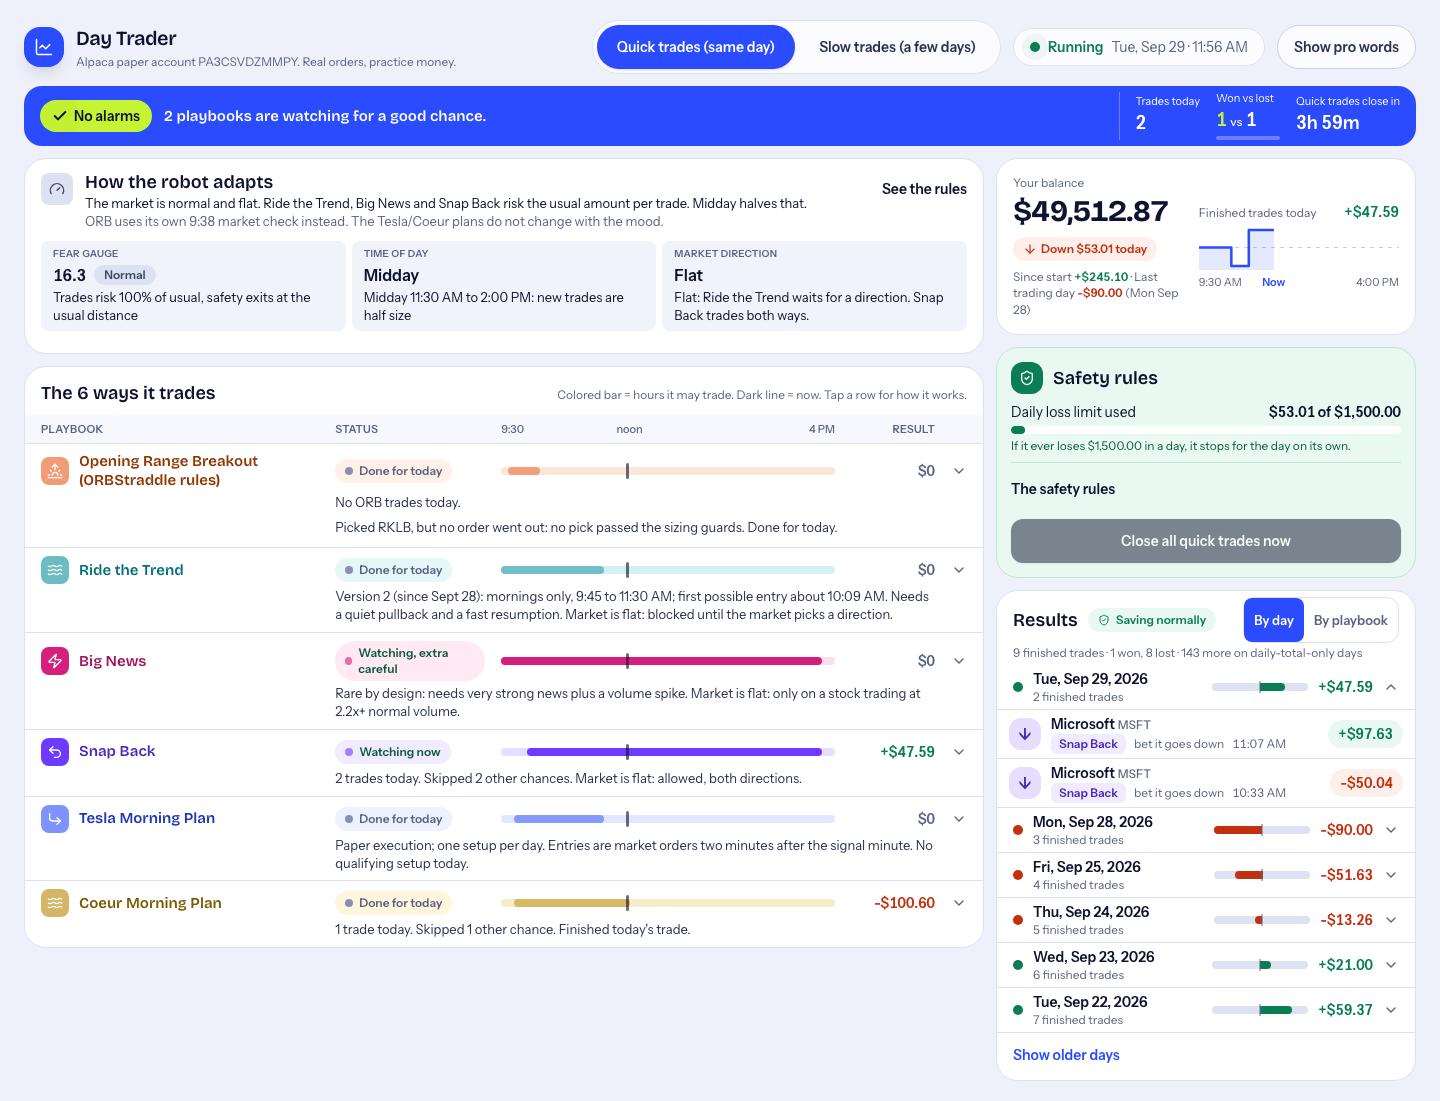
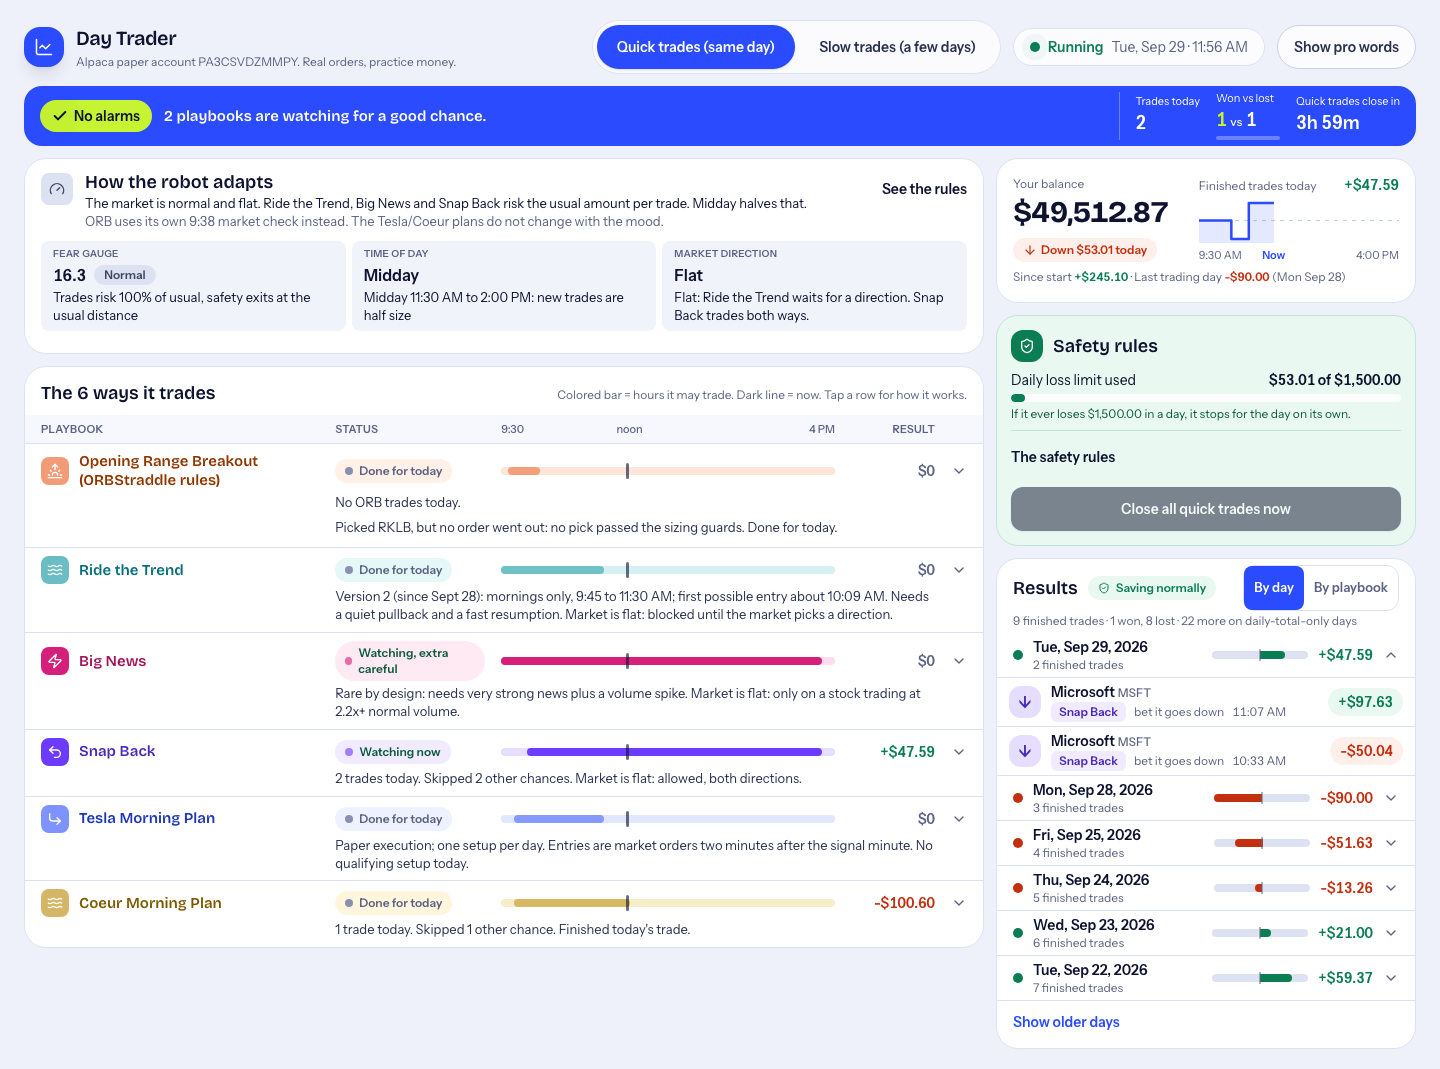
Bright dashboard review fixes: results pill source, no double count, one OvernightHolds, fixed default open group, honest daily-total count, full-width balance line

diff --git a/frontend/components/ResultsPanel.tsx b/frontend/components/ResultsPanel.tsx
@@ -235,8 +235,10 @@ export default function ResultsPanel({ ledger, today, streamPersistence }: Resul
   const [showOlder, setShowOlder] = useState(false);
   const [selected, setSelected] = useState<TradeRecord | null>(null);
   const returnFocus = useRef<HTMLElement | null>(null);
+  const lockedDefault = useRef<Partial<Record<Grouping, string>>>({});
 
-  const { items, sessions, recoveredSessions, summary, loading, error, truncated } = ledger;
+  const { items, sessions, recoveredSessions, loading, error, truncated } = ledger;
+  const firstLoad = loading && items.length === 0 && sessions.length === 0;
 
   const groups = useMemo(
     () => (grouping === "day" ? groupByDay(items, sessions.length ? sessions : recoveredSessions, today) : groupByPlaybook(items, recoveredSessions)),
@@ -249,15 +251,20 @@ export default function ResultsPanel({ ledger, today, streamPersistence }: Resul
     return todayGroup?.key ?? groups.find((g) => g.count > 0)?.key ?? null;
   }, [grouping, groups]);
 
-  const isOpen = (key: string) => (openKeys ? openKeys.has(key) : key === defaultKey);
+  // The default open group is fixed once per grouping, the first time there is one. A refetch (a trade finishing
+  // today) must never close the group the operator is reading or unmount the row a dialog returns focus to.
+  if (!firstLoad && defaultKey && lockedDefault.current[grouping] === undefined) lockedDefault.current[grouping] = defaultKey;
+  const openDefault = lockedDefault.current[grouping] ?? defaultKey;
+  const isOpen = (key: string) => (openKeys ? openKeys.has(key) : key === openDefault);
   const toggle = (key: string) => {
-    const next = new Set(openKeys ?? (defaultKey ? [defaultKey] : []));
+    const next = new Set(openKeys ?? (openDefault ? [openDefault] : []));
     if (next.has(key)) next.delete(key);
     else next.add(key);
     setOpenKeys(next);
   };
   const switchTo = (g: Grouping) => {
     if (g === grouping) return;
+    delete lockedDefault.current[g];
     setGrouping(g);
     setOpenKeys(null);
     setShowAllKeys(new Set());
@@ -281,11 +288,11 @@ export default function ResultsPanel({ ledger, today, streamPersistence }: Resul
 
   const wins = items.filter((t) => t.realized_pnl > 0).length;
   const losses = items.filter((t) => t.realized_pnl < 0).length;
-  const dailyOnly = summary && summary.trades_count > items.length ? summary.trades_count - items.length : 0;
+  // trades that exist only as a daily total (recovered days); trades merely not loaded (page cap) are not counted here
+  const dailyOnly = (sessions.length ? sessions : recoveredSessions).filter((x) => x.aggregate_only).reduce((n, x) => n + x.trades_count, 0);
 
   const durable = streamPersistence.status === "durable";
   const disabled = streamPersistence.status === "disabled";
-  const firstLoad = loading && items.length === 0 && sessions.length === 0;
   const empty = !loading && items.length === 0 && sessions.length === 0 && recoveredSessions.length === 0;
 
   return (

diff --git a/frontend/app/page.tsx b/frontend/app/page.tsx
@@ -206,6 +206,7 @@ export default function Home() {
       ])),
     },
     ledgerError: !!todayLedger.error,
+    resultsError: !!allLedger.error,
     positions: intradayPositions,
   });
 
@@ -304,6 +305,18 @@ export default function Home() {
           </div>
         )}
 
+        {/* Rendered once, above both views (as on main), so a tap-to-confirm in flight survives Quick/Slow switches. */}
+        {overnightOn && (
+          <OvernightHolds
+            holds={holdViews}
+            tonight={tonightLines}
+            summary={overnightSummary}
+            noBuyActive={noBuyActive}
+            disabledReason={disabledReason}
+            onSetNoBuy={setNoBuyTonight}
+          />
+        )}
+
         {mode === "intraday" ? (
           // Quick trades: two columns from lg up. Balance sits top right, the left stack runs the whole height, Safety and
           // Results stack under Balance. DOM order is the phone order: Balance, left stack, right stack (no CSS order).
@@ -320,16 +333,6 @@ export default function Home() {
             />
 
             <div className="flex min-w-0 flex-col gap-3 lg:col-span-1 lg:col-start-1 lg:row-span-2 lg:row-start-1">
-              {overnightOn && (
-                <OvernightHolds
-                  holds={holdViews}
-                  tonight={tonightLines}
-                  summary={overnightSummary}
-                  noBuyActive={noBuyActive}
-                  disabledReason={disabledReason}
-                  onSetNoBuy={setNoBuyTonight}
-                />
-              )}
 
               <HoldingNow
                 positions={intradayPositions}
@@ -377,16 +380,6 @@ export default function Home() {
               overnightNote={holdViews.length > 0 ? overnightBalanceNote(holdsValue) : null}
               history={ledgerHistoryLine(allLedger, todayEt)}
             />
-            {overnightOn && (
-              <OvernightHolds
-                holds={holdViews}
-                tonight={tonightLines}
-                summary={overnightSummary}
-                noBuyActive={noBuyActive}
-                disabledReason={disabledReason}
-                onSetNoBuy={setNoBuyTonight}
-              />
-            )}
             <div className="fadein flex flex-col gap-4">
               <SwingTelemetryBar swingState={state.swing} showPro={showPro} />
               <ActiveSwingPositionsTable

diff --git a/frontend/components/BalanceCard.tsx b/frontend/components/BalanceCard.tsx
@@ -66,7 +66,8 @@ export default function BalanceCard({ equity, dailyPnl, todayTrades, loading, ov
   }, [todayTrades]);
 
   return (
-    <div className={`rise hover-card flex flex-col rounded-[22px] border border-line bg-white ${narrow ? "gap-1.5 p-3 sm:flex-row sm:items-stretch sm:gap-4 sm:p-4" : "gap-3 p-4 sm:flex-row sm:items-stretch sm:gap-5 sm:p-5"} ${className}`} data-testid="balance-card">
+    <div className={`rise hover-card flex flex-col rounded-[22px] border border-line bg-white ${narrow ? "gap-1.5 p-3 sm:p-4" : "gap-2 p-4 sm:p-5"} ${className}`} data-testid="balance-card">
+      <div className={`flex flex-col ${narrow ? "gap-1.5 sm:flex-row sm:items-stretch sm:gap-4" : "gap-3 sm:flex-row sm:items-stretch sm:gap-5"}`}>
       <div className={`flex flex-col gap-2 ${narrow ? "sm:w-[44%] sm:justify-center" : "sm:w-[46%] sm:justify-center"}`}>
       <div className="flex flex-row items-start justify-between gap-3 sm:flex-col sm:gap-2">
         <div className="flex flex-col gap-0.5">
@@ -95,12 +96,6 @@ export default function BalanceCard({ equity, dailyPnl, todayTrades, loading, ov
           </div>
         )}
       </div>
-        {history && (
-          <div className="text-xs leading-snug text-muted" data-testid="balance-history">
-            <span className="whitespace-nowrap">Since start <MoneyText value={history.sinceStart} />{history.lastDay && " ·"}</span>
-            {history.lastDay && <> Last trading day <MoneyText value={history.lastDay.pnl} /> ({history.lastDay.label})</>}
-          </div>
-        )}
       </div>
 
       <div className="flex min-w-0 flex-1 flex-col justify-center gap-1">
@@ -136,6 +131,13 @@ export default function BalanceCard({ equity, dailyPnl, todayTrades, loading, ov
           <span>4:00 PM</span>
         </div>
       </div>
+      </div>
+      {history && (
+        <div className="text-xs leading-snug text-muted" data-testid="balance-history">
+          <span className="whitespace-nowrap">Since start <MoneyText value={history.sinceStart} />{history.lastDay && " ·"}</span>
+          {history.lastDay && <> Last trading day <MoneyText value={history.lastDay.pnl} /> ({history.lastDay.label})</>}
+        </div>
+      )}
     </div>
   );
 }

diff --git a/frontend/lib/plain.ts b/frontend/lib/plain.ts
@@ -1031,6 +1031,8 @@ export interface AttentionInputs {
   };
   /** Today's finished-trades list failed to load (the strip's "Trades today" would read a silent 0). */
   ledgerError: boolean;
+  /** The all-time ledger (the Results panel) failed to refresh. */
+  resultsError: boolean;
   /** Quick-trade positions (overnight holds excluded). */
   positions: { symbol: string; stop_loss?: number | null; strategy_id?: string | null }[];
 }
@@ -1070,8 +1072,9 @@ export function collectAttention(i: AttentionInputs): AttentionItem[] {
     });
   }
   guard(() => { if (i.overnight.initError) add("overnight-init", "overnight holds could not start"); });
-  guard(() => { for (const sym of i.overnight.needsLook) add(`overnight-look:${sym}`, `${sym} overnight hold needs a look`); });
+  guard(() => { for (const sym of i.overnight.needsLook) if (!i.unsold.includes(sym)) add(`overnight-look:${sym}`, `${sym} overnight hold needs a look`); });
   guard(() => { if (i.ledgerError) add("ledger", "today's trades did not load"); });
+  guard(() => { if (i.resultsError) add("results", "results did not refresh"); });
   for (const p of i.positions) {
     guard(() => {
       const w = positionWarning(p);

diff --git a/scripts/verify_bright_dashboard.py b/scripts/verify_bright_dashboard.py
@@ -340,6 +340,20 @@ def run_attention(browser, port: int) -> None:
     check(expect_one(got, "today's trades did not load"), f"[one/ledger] today's ledger 500: count 1 and the list says so ({got['text']!r}, {got['list']!r})")
     s.close()
 
+    # the all-time ledger (Results) fails: the pill says so too
+    led = Ledger(vc.LIVE_TRADES)
+    led.fail_all = True
+    s = BS(browser, port, "one/results", "desktop", LIVE, led)
+    got = pill(s)
+    check(expect_one(got, "results did not refresh"), f"[one/results] range=all 500: count 1 and the list says so ({got['text']!r}, {got['list']!r})")
+    s.close()
+
+    # an unsold hold that also needs a look counts once
+    s = BS(browser, port, "dedup/unsold", "desktop", with_overnight(LIVE, needs_look=["BOOK_MORE_THAN_ALPACA"], unsold=["IREN"]), Ledger(vc.LIVE_TRADES))
+    got = pill(s)
+    check(expect_one(got, "IREN not sold yet"), f"[dedup] unsold plus needs-look on the same stock counts once ({got['text']!r}, {got['list']!r})")
+    s.close()
+
     # de-dup: an orphan that also raises an ORB alert and an ORB error counts once
     s = BS(browser, port, "dedup", "desktop", mutate(LIVE, orb_orphan_with_error), Ledger(vc.LIVE_TRADES))
     got = pill(s)
@@ -414,8 +428,8 @@ def run_results(browser, port: int) -> None:
     items = body["items"]
     wins, losses = sum(1 for t in items if t["realized_pnl"] > 0), sum(1 for t in items if t["realized_pnl"] < 0)
     check(summary.startswith(f"{len(items)} finished trades · {wins} won, {losses} lost"), f"[summary] counts come from the loaded trades ({summary!r})")
-    more = body["summary"]["trades_count"] - len(items)
-    check(f"{more} more on daily-total-only days" in summary, f"[summary] trades on daily-total-only days are said, not added ({summary!r})")
+    more = sum(x["trades_count"] for x in sessions if x["aggregate_only"])
+    check(f"{more} more on daily-total-only days" in summary, f"[summary] only recovered daily-total-only days are counted as 'more' ({more}: {summary!r})")
 
     # a day whose total differs from the sum of its trades by a few cents shows the SESSION total
     day1 = sessions[1]["session_date"]  # newest earlier day (index 0 is today)
@@ -541,6 +555,27 @@ def run_results(browser, port: int) -> None:
     led.fail_all = False
     p.wait_for_timeout(5600)
     check(p.get_by_test_id("results-error").count() == 0, "[error] it recovers on the next retry (5 s) and the line goes away")
+    s.close()
+
+    # default open group is fixed: yesterday open by default, a dialog open, a refetch adds a trade today
+    led = Ledger([])
+    s = BS(browser, port, "results-lock", "desktop", LIVE, led, settle_ms=2000)
+    yday = led.sessions[0]["session_date"]
+    check(group_btn(s, yday).get_attribute("aria-expanded") == "true", "[lock] with no trades today the newest day is open by default")
+    row = s.page.locator(f"[data-testid=results-group][data-key='{yday}'] [data-testid=results-trade]").first
+    tid = row.get_attribute("data-trade-id")
+    row.click(); s.page.wait_for_timeout(300)
+    led.today_trades = list(vc.LIVE_TRADES)
+    fr = copy.deepcopy(LIVE); fr["ledger_revision"] = LIVE.get("ledger_revision", 0) + 1
+    before = led.requests["all"]
+    s.push(fr, 1200)
+    check(led.requests["all"] > before, "[lock] the ledger refetched with a trade added today")
+    check(s.page.locator("dialog[data-testid=trade-detail]").first.evaluate("d => d.open"), "[lock] the open dialog survived the refetch")
+    s.page.keyboard.press("Escape"); s.page.wait_for_timeout(300)
+    check(group_btn(s, yday).get_attribute("aria-expanded") == "true", "[lock] yesterday is still open after the refetch")
+    check(group_btn(s, TODAY).get_attribute("aria-expanded") == "false", "[lock] today did not take over as the open group")
+    focused = s.page.evaluate("() => document.activeElement.getAttribute('data-trade-id')")
+    check(focused == tid, f"[lock] focus returns to the row ({focused!r} == {tid!r})")
     s.close()
 
     # empty today: its group opens with 'No finished trades today.'; first load shows 'Loading results…'
@@ -694,6 +729,24 @@ def run_layout(browser, port: int, old_port: Optional[int]) -> None:
     check(sw == {"safety": 0, "results": 0, "swing": 1, "ovn": 1, "bal": 1}, f"[slow-mode] Balance, overnight holds and the slow-trades view; no Safety, no Results {sw}")
     s.page.screenshot(path=str(SHOTS / "slow_desktop.png"), full_page=True)
     check(not s.page.evaluate(vc.JS_OVERFLOW), "[slow-mode] no horizontal overflow")
+    s.close()
+
+    # the no-overnight-buy confirm state survives a Quick/Slow switch (OvernightHolds is one instance above both views)
+    f = with_overnight(LIVE)
+    f["overnight"]["rows"] = [{"symbol": "IREN", "name": "IREN overnight", "strategy_id": "overnight_iren", "enabled": True, "state": None,
+                               "buy_date": TODAY, "sale_date": None, "reason": None, "block": None, "needs_look": [], "qty": None,
+                               "held_qty": 0, "buy_avg": None, "realized": None, "reserved": False, "tonight": True, "sale_text": None, "size_note": ""}]
+    f["overnight"]["holds"] = []
+    f["all_positions"] = [p for p in f["all_positions"] if p["symbol"] != "IREN"]
+    s = BS(browser, port, "ovn-mode", "desktop", f, Ledger(vc.LIVE_TRADES), settle_ms=1200)
+    btn = s.page.locator("[data-testid=btn-no-buy-tonight]")
+    check(btn.count() == 1 and btn.is_enabled(), "[ovn-mode] the no overnight buy button is there and enabled")
+    btn.click(); s.page.wait_for_timeout(200)
+    check("Tap again to confirm" in btn.inner_text(), "[ovn-mode] the first tap asks to confirm")
+    s.page.locator("[data-testid=mode-tab-swing]").click(); s.page.wait_for_timeout(300)
+    s.page.locator("[data-testid=mode-tab-intraday]").click(); s.page.wait_for_timeout(300)
+    check("Tap again to confirm" in s.page.locator("[data-testid=btn-no-buy-tonight]").inner_text() and s.page.locator("[data-testid=overnight-holds]").count() == 1,
+          "[ovn-mode] after Slow trades and back the confirm state is still there (one OvernightHolds, same position)")
     s.close()
 
     # the Close-all button is ink, not red, until it asks for confirmation

diff --git a/MEMORY.md b/MEMORY.md
@@ -745,3 +745,4 @@ DAY_ONE_BUILD_REVISION=7c51e646... set with --skip-deploys, then push main. Veri
 - **Caps (pre-registered, not raised)**: desktop idle 1150 live 1300 live_one 1350 busy 2100; phone idle 2950 live 3550 live_one 3750 busy 5350. Measured numbers are in the final report; idle desktop sits exactly on 1150.
 - **Mutation proof (plan 11.6)**: see the entry below once recorded.
 - **Mutation proof recorded (2026-10-04)**: deleted the `saving` source from collectAttention, rebuilt: verify_bright_dashboard --only attention gave "41 passed, 1 failed" (FAIL [one/saving problem] ... ('No alarms', None)) and verify_attention.mjs failed "saving: exactly one item". Restored, rebuilt, green.
+- **Review round 2026-10-04 (6 fixes)**: pill now has a `results` source (all-time ledger failed) and no longer double counts an unsold hold that also needs a look; OvernightHolds is one instance above both views (as on main) so its confirm state survives Quick/Slow; Results default open group is fixed once per grouping (a refetch cannot collapse the group being read or unmount the dialog's return row); "N more on daily-total-only days" counts only aggregate-only sessions; Balance "Since start / Last trading day" line is one full-width row. Rejected: recomputing the default open group on every refetch (collapsed what the operator was reading). Caps unchanged; idle desktop now 1115.
